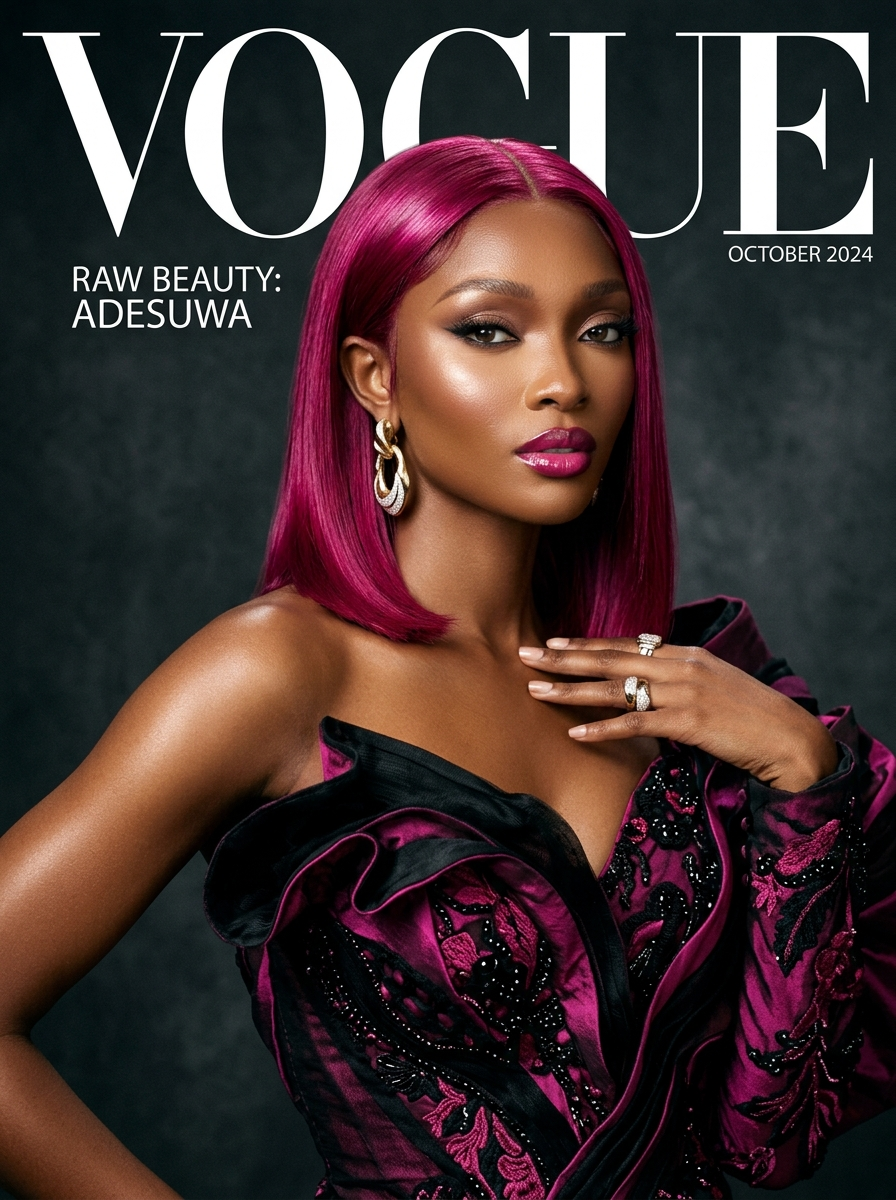
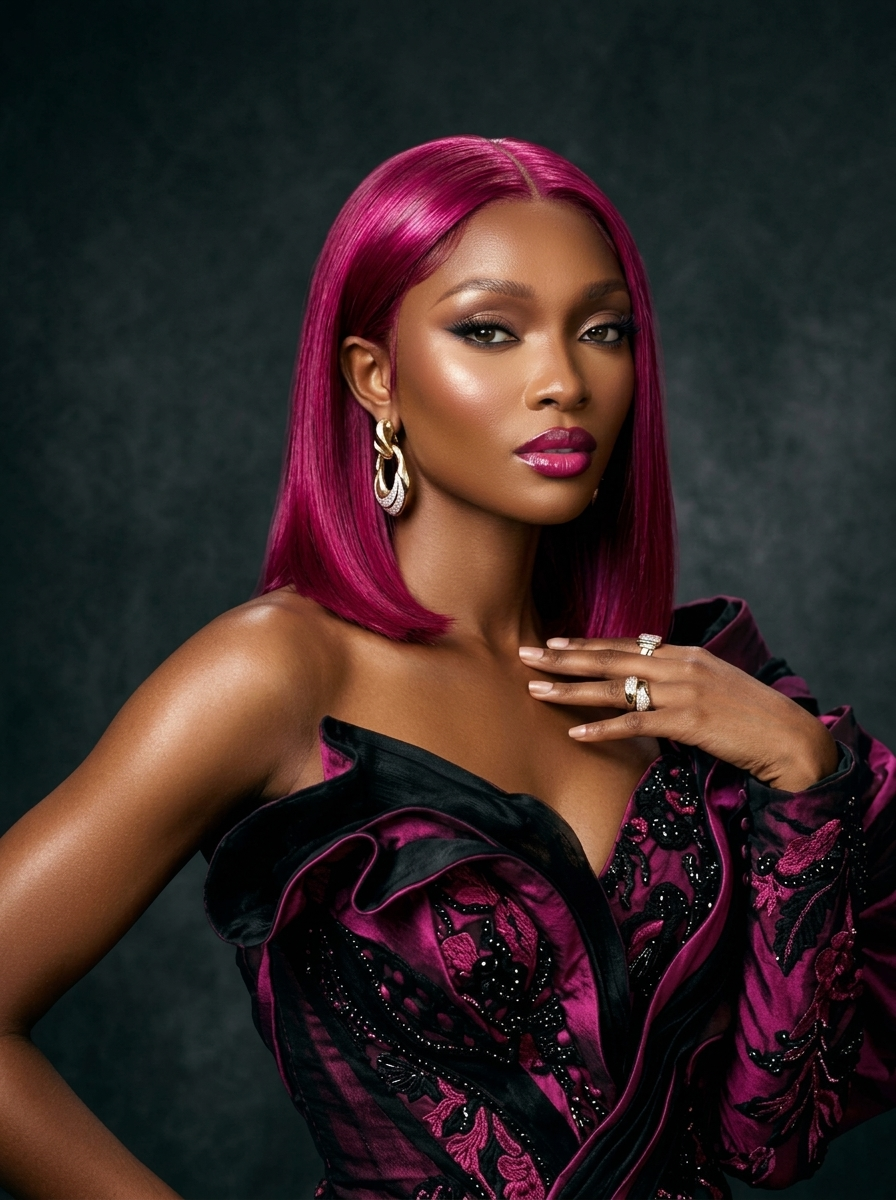
chore: update codebase

diff --git a/backend/seeds/seed.js b/backend/seeds/seed.js
@@ -250,6 +250,249 @@ const sampleProducts = [
     reviewsCount: 34,
     tags: ["bone straight", "hd lace", "raw hair", "vietnamese", "luxury", "black hair"]
   },
+  {
+    name: "The Maison Chocolat Rich Brown Silk Bob Wig",
+    category: "wigs",
+    price: 215000,
+    compareAtPrice: 255000,
+    shortDescription: "Luxurious single-donor chocolate brown sleek bob with pre-plucked invisible HD lace — effortlessly chic.",
+    description: "Elegance in its purest form. Handcrafted from single-donor raw hair, deep-dyed to a flawless multi-tonal chocolate brown with warm caramel undertones. The precision-cut blunt bob drapes with liquid smoothness, complementing every skin tone. Finished with a pre-customised 13x4 HD Swiss frontal that melts perfectly into the hairline.",
+    specifications: {
+      hairType: "100% Single Donor Raw Virgin Hair",
+      origin: "Vietnamese Highland Raw",
+      laceType: "13x4 Melt HD Swiss Frontal",
+      hairGrade: "13A Double Drawn",
+      capSize: "Medium (22.5\") Breathable Cap",
+      longevity: "3+ Years",
+      texture: "Silky Straight Bob",
+      colorName: "Rich Chocolate Brown #4",
+      colorHex: "#5C3317",
+      availableColors: [
+        { name: "Chocolate Brown #4", hex: "#5C3317" },
+        { name: "Caramel Toffee #6", hex: "#8B5E3C" }
+      ]
+    },
+    images: [
+      "/images/products/wig-brown-model.jpg",
+      "/images/products/wig-brown-bust.jpg",
+      "/images/products/wig-bone-straight-2.jpg"
+    ],
+    variants: [
+      { name: '12" / 180% Density / Chocolate Brown #4', length: '12"', density: '180%', color: 'Chocolate Brown #4', texture: 'Silky Straight Bob', price: 215000, stock: 10 },
+      { name: '14" / 200% Density / Chocolate Brown #4', length: '14"', density: '200%', color: 'Chocolate Brown #4', texture: 'Silky Straight Bob', price: 235000, stock: 7 },
+      { name: '14" / 200% Density / Caramel Toffee #6', length: '14"', density: '200%', color: 'Caramel Toffee #6', texture: 'Silky Straight Bob', price: 245000, stock: 5 }
+    ],
+    inStock: true,
+    stockQuantity: 22,
+    isFeatured: true,
+    isBestseller: true,
+    rating: 4.9,
+    reviewsCount: 21,
+    tags: ["brown", "chocolate", "bob", "silky straight", "hd lace", "natural"]
+  },
+  {
+    name: "The Noir Obsidian Jet Black Bone Straight Wig",
+    category: "wigs",
+    price: 280000,
+    compareAtPrice: 335000,
+    shortDescription: "Ultra-glossy jet black bone-straight long wig with mirror-like glass shine and seamless 13x6 HD frontal.",
+    description: "Timeless, dramatic, and impossibly sleek. Sourced from premium single-donor raw Vietnamese hair in its purest natural jet black state — zero processing, zero chemicals — resulting in a luminous, glass-like mirror shine that photographs beautifully under studio and ambient light alike. Features a hand-tied 13x6 HD Swiss lace with micro-bleached knots.",
+    specifications: {
+      hairType: "100% Raw Unprocessed Single Donor Hair",
+      origin: "Vietnam Highlands",
+      laceType: "13x6 Ultra-Thin HD Swiss Frontal",
+      hairGrade: "14A Double Drawn",
+      capSize: "Medium (22.5\") with velvet grip band",
+      longevity: "3 - 5 Years",
+      texture: "Bone Straight",
+      colorName: "Jet Black #1",
+      colorHex: "#0A0A0A",
+      availableColors: [
+        { name: "Jet Black #1", hex: "#0A0A0A" },
+        { name: "Natural Black #1B", hex: "#18181B" }
+      ]
+    },
+    images: [
+      "/images/products/wig-black-model.jpg",
+      "/images/products/wig-black-bust.jpg",
+      "/images/products/wig-bone-straight-1.jpg",
+      "/images/products/wig-bone-straight-3.jpg"
+    ],
+    variants: [
+      { name: '24" / 200% Density / Jet Black #1', length: '24"', density: '200%', color: 'Jet Black #1', texture: 'Bone Straight', price: 280000, stock: 12 },
+      { name: '28" / 250% Density / Jet Black #1', length: '28"', density: '250%', color: 'Jet Black #1', texture: 'Bone Straight', price: 340000, stock: 8 },
+      { name: '32" / 250% Density / Natural Black #1B', length: '32"', density: '250%', color: 'Natural Black #1B', texture: 'Bone Straight', price: 390000, stock: 4 }
+    ],
+    inStock: true,
+    stockQuantity: 24,
+    isFeatured: true,
+    isBestseller: true,
+    rating: 5.0,
+    reviewsCount: 33,
+    tags: ["black hair", "jet black", "bone straight", "hd lace", "glass shine", "raw"]
+  },
+  {
+    name: "The Havana Flame Burnt Orange Body Wave Wig",
+    category: "wigs",
+    price: 310000,
+    compareAtPrice: 370000,
+    shortDescription: "Fiery burnt-orange long body waves with radiant warm-toned chromatic pigment and 13x6 HD Swiss frontal.",
+    description: "Be the room. This statement piece is saturated in a vivid burnt mandarin-orange hue with multi-dimensional amber and rust undertones that glow under warm lighting. Crafted from Burmese raw hair — renowned for its naturally voluminous body wave pattern that retains shape wash after wash. Pre-installed with our Melt HD Swiss frontal.",
+    specifications: {
+      hairType: "100% Raw Burmese Virgin Hair",
+      origin: "Myanmar / Burmese Highlands",
+      laceType: "13x6 Melt HD Swiss Frontal",
+      hairGrade: "14A Double Drawn",
+      capSize: "Medium (22.5\") with adjustable band",
+      longevity: "3 - 4 Years",
+      texture: "Body Wave",
+      colorName: "Burnt Mandarin Orange",
+      colorHex: "#C45000",
+      availableColors: [
+        { name: "Burnt Mandarin Orange", hex: "#C45000" },
+        { name: "Copper Rust Ombre", hex: "#A0522D" }
+      ]
+    },
+    images: [
+      "/images/products/wig-orange-model.jpg",
+      "/images/products/wig-orange-bust.jpg",
+      "/images/products/wig-body-wave-1.jpg",
+      "/images/products/wig-body-wave-2.jpg"
+    ],
+    variants: [
+      { name: '22" / 180% Density / Burnt Orange', length: '22"', density: '180%', color: 'Burnt Mandarin Orange', texture: 'Body Wave', price: 310000, stock: 8 },
+      { name: '26" / 200% Density / Burnt Orange', length: '26"', density: '200%', color: 'Burnt Mandarin Orange', texture: 'Body Wave', price: 365000, stock: 6 },
+      { name: '24" / 200% Density / Copper Rust Ombre', length: '24"', density: '200%', color: 'Copper Rust Ombre', texture: 'Body Wave', price: 345000, stock: 4 }
+    ],
+    inStock: true,
+    stockQuantity: 18,
+    isFeatured: true,
+    isBestseller: false,
+    rating: 4.8,
+    reviewsCount: 17,
+    tags: ["orange", "burnt orange", "body wave", "bold color", "hd lace", "statement"]
+  },
+  {
+    name: "The Versailles Auburn Copper Silk Straight Wig",
+    category: "wigs",
+    price: 295000,
+    compareAtPrice: 350000,
+    shortDescription: "Glamorous rich auburn copper-red silk straight long wig — warm, opulent and endlessly photogenic.",
+    description: "Channel autumn luxury with this deeply saturated auburn copper-red long straight unit. Multi-tonal pigmentation blends warm sienna, burnished copper, and deep russet tones for a breathtaking dimensional effect. Made from single-donor Vietnamese raw hair, pre-treated with cuticle-sealing amino acids for extreme shine and silkiness.",
+    specifications: {
+      hairType: "100% Single Donor Raw Vietnamese Hair",
+      origin: "Vietnam Highlands",
+      laceType: "13x4 Pre-Plucked HD Swiss Frontal",
+      hairGrade: "13A Double Drawn",
+      capSize: "Medium (22.5\") Silk Cap",
+      longevity: "3+ Years",
+      texture: "Silky Straight",
+      colorName: "Rich Auburn Copper #30",
+      colorHex: "#8B3A00",
+      availableColors: [
+        { name: "Rich Auburn Copper #30", hex: "#8B3A00" },
+        { name: "Sienna Red Ombre", hex: "#922B21" }
+      ]
+    },
+    images: [
+      "/images/products/wig-auburn-model.jpg",
+      "/images/products/wig-auburn-bust.jpg",
+      "/images/products/wig-bone-straight-2.jpg"
+    ],
+    variants: [
+      { name: '22" / 200% Density / Auburn Copper #30', length: '22"', density: '200%', color: 'Rich Auburn Copper #30', texture: 'Silky Straight', price: 295000, stock: 9 },
+      { name: '26" / 200% Density / Auburn Copper #30', length: '26"', density: '200%', color: 'Rich Auburn Copper #30', texture: 'Silky Straight', price: 345000, stock: 6 },
+      { name: '24" / 200% Density / Sienna Red Ombre', length: '24"', density: '200%', color: 'Sienna Red Ombre', texture: 'Silky Straight', price: 325000, stock: 4 }
+    ],
+    inStock: true,
+    stockQuantity: 19,
+    isFeatured: true,
+    isBestseller: true,
+    rating: 4.9,
+    reviewsCount: 24,
+    tags: ["auburn", "copper", "red hair", "silk straight", "hd lace", "warm tones"]
+  },
+  {
+    name: "The Bellissima Burgundy Wine Curl Wig",
+    category: "wigs",
+    price: 305000,
+    compareAtPrice: 360000,
+    shortDescription: "Sumptuous deep wine burgundy long curly wig with rich jewel-toned pigment and a lush, bouncy curl pattern.",
+    description: "Opulence in every curl. This bordeaux-wine burgundy unit is saturated with multi-dimensional jewel-toned pigment — deep plum, crimson wine, and moody violet undertones — that shift beautifully in different lighting. Crafted from Cambodian raw hair, known for its naturally thick, voluminous curl pattern that holds shape beautifully without frizz.",
+    specifications: {
+      hairType: "100% Raw Cambodian Virgin Hair",
+      origin: "Cambodian Highlands",
+      laceType: "13x6 HD Swiss Lace Frontal",
+      hairGrade: "14A Double Drawn",
+      capSize: "Medium (22.5\") with elastic band",
+      longevity: "3 - 5 Years",
+      texture: "Deep Curly",
+      colorName: "Bordeaux Wine Burgundy #99J",
+      colorHex: "#6D0E2E",
+      availableColors: [
+        { name: "Bordeaux Wine Burgundy #99J", hex: "#6D0E2E" },
+        { name: "Dark Plum Violet", hex: "#4A235A" }
+      ]
+    },
+    images: [
+      "/images/products/wig-burgundy-model.jpg",
+      "/images/products/wig-burgundy-bust.jpg",
+      "/images/products/wig-deep-wave-1.jpg",
+      "/images/products/wig-deep-wave-2.jpg"
+    ],
+    variants: [
+      { name: '22" / 200% Density / Burgundy #99J', length: '22"', density: '200%', color: 'Bordeaux Wine Burgundy #99J', texture: 'Deep Curly', price: 305000, stock: 8 },
+      { name: '26" / 250% Density / Burgundy #99J', length: '26"', density: '250%', color: 'Bordeaux Wine Burgundy #99J', texture: 'Deep Curly', price: 365000, stock: 5 },
+      { name: '24" / 200% Density / Dark Plum Violet', length: '24"', density: '200%', color: 'Dark Plum Violet', texture: 'Deep Curly', price: 335000, stock: 4 }
+    ],
+    inStock: true,
+    stockQuantity: 17,
+    isFeatured: true,
+    isBestseller: false,
+    rating: 4.9,
+    reviewsCount: 19,
+    tags: ["burgundy", "wine", "deep curly", "jewel tone", "hd lace", "plum"]
+  },
+  {
+    name: "The Monaco Golden Honey Blonde Beach Wave Wig",
+    category: "wigs",
+    price: 325000,
+    compareAtPrice: 385000,
+    shortDescription: "Sun-kissed golden honey blonde long beach waves with luminous warmth and seamless HD frontal — pure coastal glamour.",
+    description: "Escape to the French Riviera with every wear. Crafted from single-donor Brazilian raw hair and gently lifted to a golden honey blonde with warm caramel and butterscotch highlights throughout. The long beach wave pattern adds effortless volume and movement. Features a pre-plucked 13x6 HD Swiss frontal for a flawless natural hairline.",
+    specifications: {
+      hairType: "100% Raw Brazilian Single Donor Hair",
+      origin: "Brazilian Raw Donors",
+      laceType: "13x6 Pre-Plucked HD Swiss Frontal",
+      hairGrade: "14A Double Drawn",
+      capSize: "Medium (22.5\") with velvet grip band",
+      longevity: "3 - 4 Years",
+      texture: "Beach Wave",
+      colorName: "Golden Honey Blonde #27",
+      colorHex: "#D4A017",
+      availableColors: [
+        { name: "Golden Honey Blonde #27", hex: "#D4A017" },
+        { name: "Butterscotch Caramel Ombre", hex: "#C68A00" }
+      ]
+    },
+    images: [
+      "/images/products/wig-blonde-model.jpg",
+      "/images/products/wig-blonde-bust.jpg",
+      "/images/products/wig-body-wave-2.jpg"
+    ],
+    variants: [
+      { name: '22" / 180% Density / Golden Honey Blonde', length: '22"', density: '180%', color: 'Golden Honey Blonde #27', texture: 'Beach Wave', price: 325000, stock: 8 },
+      { name: '26" / 200% Density / Golden Honey Blonde', length: '26"', density: '200%', color: 'Golden Honey Blonde #27', texture: 'Beach Wave', price: 385000, stock: 5 },
+      { name: '24" / 200% Density / Butterscotch Ombre', length: '24"', density: '200%', color: 'Butterscotch Caramel Ombre', texture: 'Beach Wave', price: 355000, stock: 5 }
+    ],
+    inStock: true,
+    stockQuantity: 18,
+    isFeatured: true,
+    isBestseller: true,
+    rating: 4.9,
+    reviewsCount: 28,
+    tags: ["blonde", "honey blonde", "beach wave", "golden", "hd lace", "summer"]
+  },
 
   // --- ATTACHMENTS ---
   {
